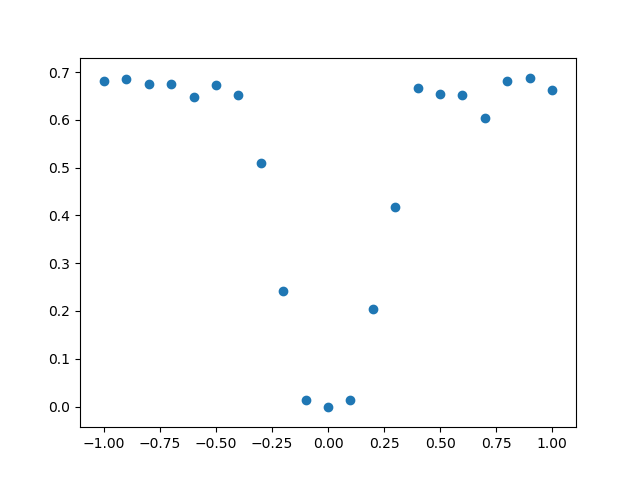
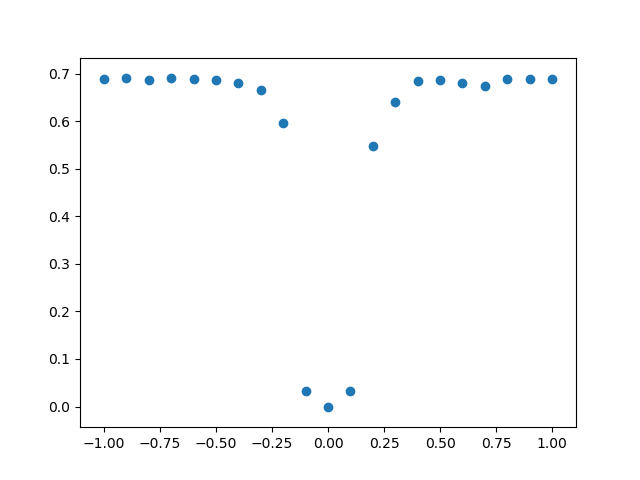
Q1.4 beginning

diff --git a/DL_A3/Q1.py b/DL_A3/Q1.py
@@ -34,9 +34,21 @@ def distribution1(x, batch_size=1):
         a = np.array([(x, random.uniform(0, 1)) for _ in range(batch_size)] , dtype=np.double)
         yield(torch.from_numpy(a))
 
+def distribution3(batch_size=1):
+    # High dimension gaussian distribution
+    while True:
+        yield(np.random.normal(0, 1, (batch_size, 1))) # Can be used in 1.4
+
+e = lambda x: np.exp(x)
+tanh = lambda x: (e(x) - e(-x)) / (e(x)+e(-x))
+def distribution4(batch_size=1):
+    # arbitrary sampler
+    f = lambda x: tanh(x*2+1) + x*0.75
+    while True:
+        yield(f(np.random.normal(0, 1, (batch_size, 1))))
 
 
-############## QUESTIONS 1-4 ###############
+############## QUESTION 1 ###############
 def q1(data):
     assert (data[0][0].size()[1] == data[0][1].size()[1])
     input_size = data[0][0].size()[1]
@@ -49,7 +61,7 @@ def q1(data):
         torch.nn.Sigmoid()
     )
     discriminator.double()
-    optimizer = optim.SGD(discriminator.parameters(), lr=0.01) #, momentum=0.2)
+    optimizer = optim.SGD(discriminator.parameters(), lr=0.01)
     for epoch in range(10):
         #print("JS Epoch #%s" % (epoch+1))
         for (p, q) in data:
@@ -62,6 +74,9 @@ def q1(data):
         return (math.log(2) + torch.mean(torch.log(discriminator(p))) / 2 + torch.mean(torch.log(1 - discriminator(q))) / 2).item()
     return js_distance
 
+
+
+############## QUESTION 2 ###############
 def q2(data):
     assert (data[0][0].size()[1] == data[0][1].size()[1])
     batch_size = data[0][0].size()[0]
@@ -75,7 +90,7 @@ def q2(data):
         torch.nn.Linear(32, 1),
     )
     critic.double()
-    optimizer = optim.SGD(critic.parameters(), lr=0.001, momentum=0.9)
+    optimizer = optim.SGD(critic.parameters(), lr=0.001)
     for epoch in range(10):
         #print("WS Epoch #%s" % (epoch+1))
         for (p, q) in data:
@@ -92,23 +107,16 @@ def q2(data):
             gradient_penalty = ((gradients.norm(2, dim=1) - 1) ** 2).mean()
             # Compute the loss and optimize
             loss = -(torch.mean(critic(p)) - torch.mean(critic(q)) - lambda_ * gradient_penalty)
-            #print("Loss :%s" % loss.data.item())
             loss.backward()
             optimizer.step()
+        print("WS Loss :%s" % loss.data.item())
     def w_distance(p,q):
         return (torch.mean(critic(p)) - torch.mean(critic(q))).item()
     return w_distance
 
-# For 1.3, the discriminator and the critic are trained on uniform distributions — and tested on uniform distributions.
-#   You train on the same uniform that you test. You train 21 models, separately
-#   p is always (0,Z) and q is (theta, Z)
-#   Distributions in R2
-#   Yep. When theta is 0 we get 0 and when theta is not 0 we get log 2
-#   JSD and WD are metrics (distances) between 2 distributions. In Q1.3, you are computing the distances between distributions P(Z) and Q(Z, \phi) where Z and \phi parameterize P and Q. Since an optimal discriminator estimates the JSD or WD (depending on the loss), you train a discriminator to convergence (i.e try to make it optimal) and use it compute JSD or WD
 
 
-
-
+############## QUESTION 3 ###############
 def q3():
     random.seed(0)
     trandom.manual_seed(0)
@@ -119,16 +127,14 @@ def q3():
 
     for phi in [x/10. for x in range(-10,11)]:
         d_q = distribution1(phi, 512)
-        train = [(next(d_p), next(d_q)) for i in range(100)]
+        train = [(next(d_p), next(d_q)) for i in range(500)]
         critic = q2(train)
-        p = next(d_p)
-        q = next(d_q)
-        ws_distances.append((phi, critic(p,q)))
+        ws_distances.append((phi, critic(next(d_p),next(d_q))))
         print("Phi %.3f, WS %.3f" % (ws_distances[-1][0], ws_distances[-1][1]))
     
     for phi in [x/10. for x in range(-10,11)]:
         d_q = distribution1(phi, 512)
-        train = [(next(d_p), next(d_q)) for i in range(200)]
+        train = [(next(d_p), next(d_q)) for i in range(300)]
         discriminator = q1(train)
         js_divergences.append((phi, discriminator(next(d_p), next(d_q))))
         print("Phi %.3f, JS %.3f" % (js_divergences[-1][0], js_divergences[-1][1]))
@@ -143,31 +149,53 @@ def q3():
     f.close()
 
 
+
+############## QUESTION 4 ###############
 def q4(data):
-    assert (data[0][0].size()[1] == data[0][1].size()[1])
-    input_size = data[0][0].size()[1]
-    discriminator = torch.nn.Sequential(
-        torch.nn.Linear(input_size, 32),
-        torch.nn.ReLU(),
-        torch.nn.Linear(32, 32),
-        torch.nn.ReLU(),
-        torch.nn.Linear(32, 1),
-        torch.nn.Sigmoid()
-    )
-    discriminator.double()
-    optimizer = optim.SGD(discriminator.parameters(), lr=0.001, momentum=0.2)
-    for epoch in range(10):
-        #print("Q4 Epoch #%s" % (epoch+1))
-        for (p, q) in data:
-            discriminator.zero_grad()
-            loss = -(torch.mean(torch.log(discriminator(p)))+ torch.mean(torch.log(1 - discriminator(q))))
-            loss.backward()
-            optimizer.step()
+    def create_discriminator(data):
+        assert (data[0][0].size()[1] == data[0][1].size()[1])
+        input_size = data[0][0].size()[1]
+        discriminator = torch.nn.Sequential(
+            torch.nn.Linear(input_size, 32),
+            torch.nn.ReLU(),
+            torch.nn.Linear(32, 32),
+            torch.nn.ReLU(),
+            torch.nn.Linear(32, 1),
+            torch.nn.Sigmoid()
+        )
+        discriminator.double()
+        optimizer = optim.SGD(discriminator.parameters(), lr=0.001)
+        for epoch in range(10):
+            #print("Q4 Epoch #%s" % (epoch+1))
+            for (p, q) in data:
+                discriminator.zero_grad()
+                loss = -(torch.mean(torch.log(discriminator(p))) + torch.mean(torch.log(1 - discriminator(q))))
+                loss.backward()
+                optimizer.step()
         #print("Q4 Loss :%s" % loss.data.item())
-    def js_distance(p,q):
-        return (math.log(2) + torch.mean(torch.log(discriminator(p))) / 2 + torch.mean(torch.log(1 - discriminator(q))) / 2).item()
-    return js_distance
+        return discriminator
+
+    def train_discriminator():
+        d_p = distribution4(512) # p : f1
+        d_q = distribution3(512) # q : f0
+        train = [(next(d_p), next(d_q)) for i in range(500)]
+        return create_discriminator(train)
+
+
+    return f1
+
+    discriminator = train_discriminator()
+    f0 = next(distribution3(512))
+    def estimated_f1(x):
+        return (f0 * discriminator(x))/(1 - discriminator(x))
+
+    plot discriminator
+    plit estimated_f1
+
+    #p : f1 : distribution4
+    #q : f0 : gaussian
+    #f1(x) = (f0(x) * d(x))/(1 - d(x))
 
 
 if __name__ == "__main__":
-    q3()
+    pass #q3()
